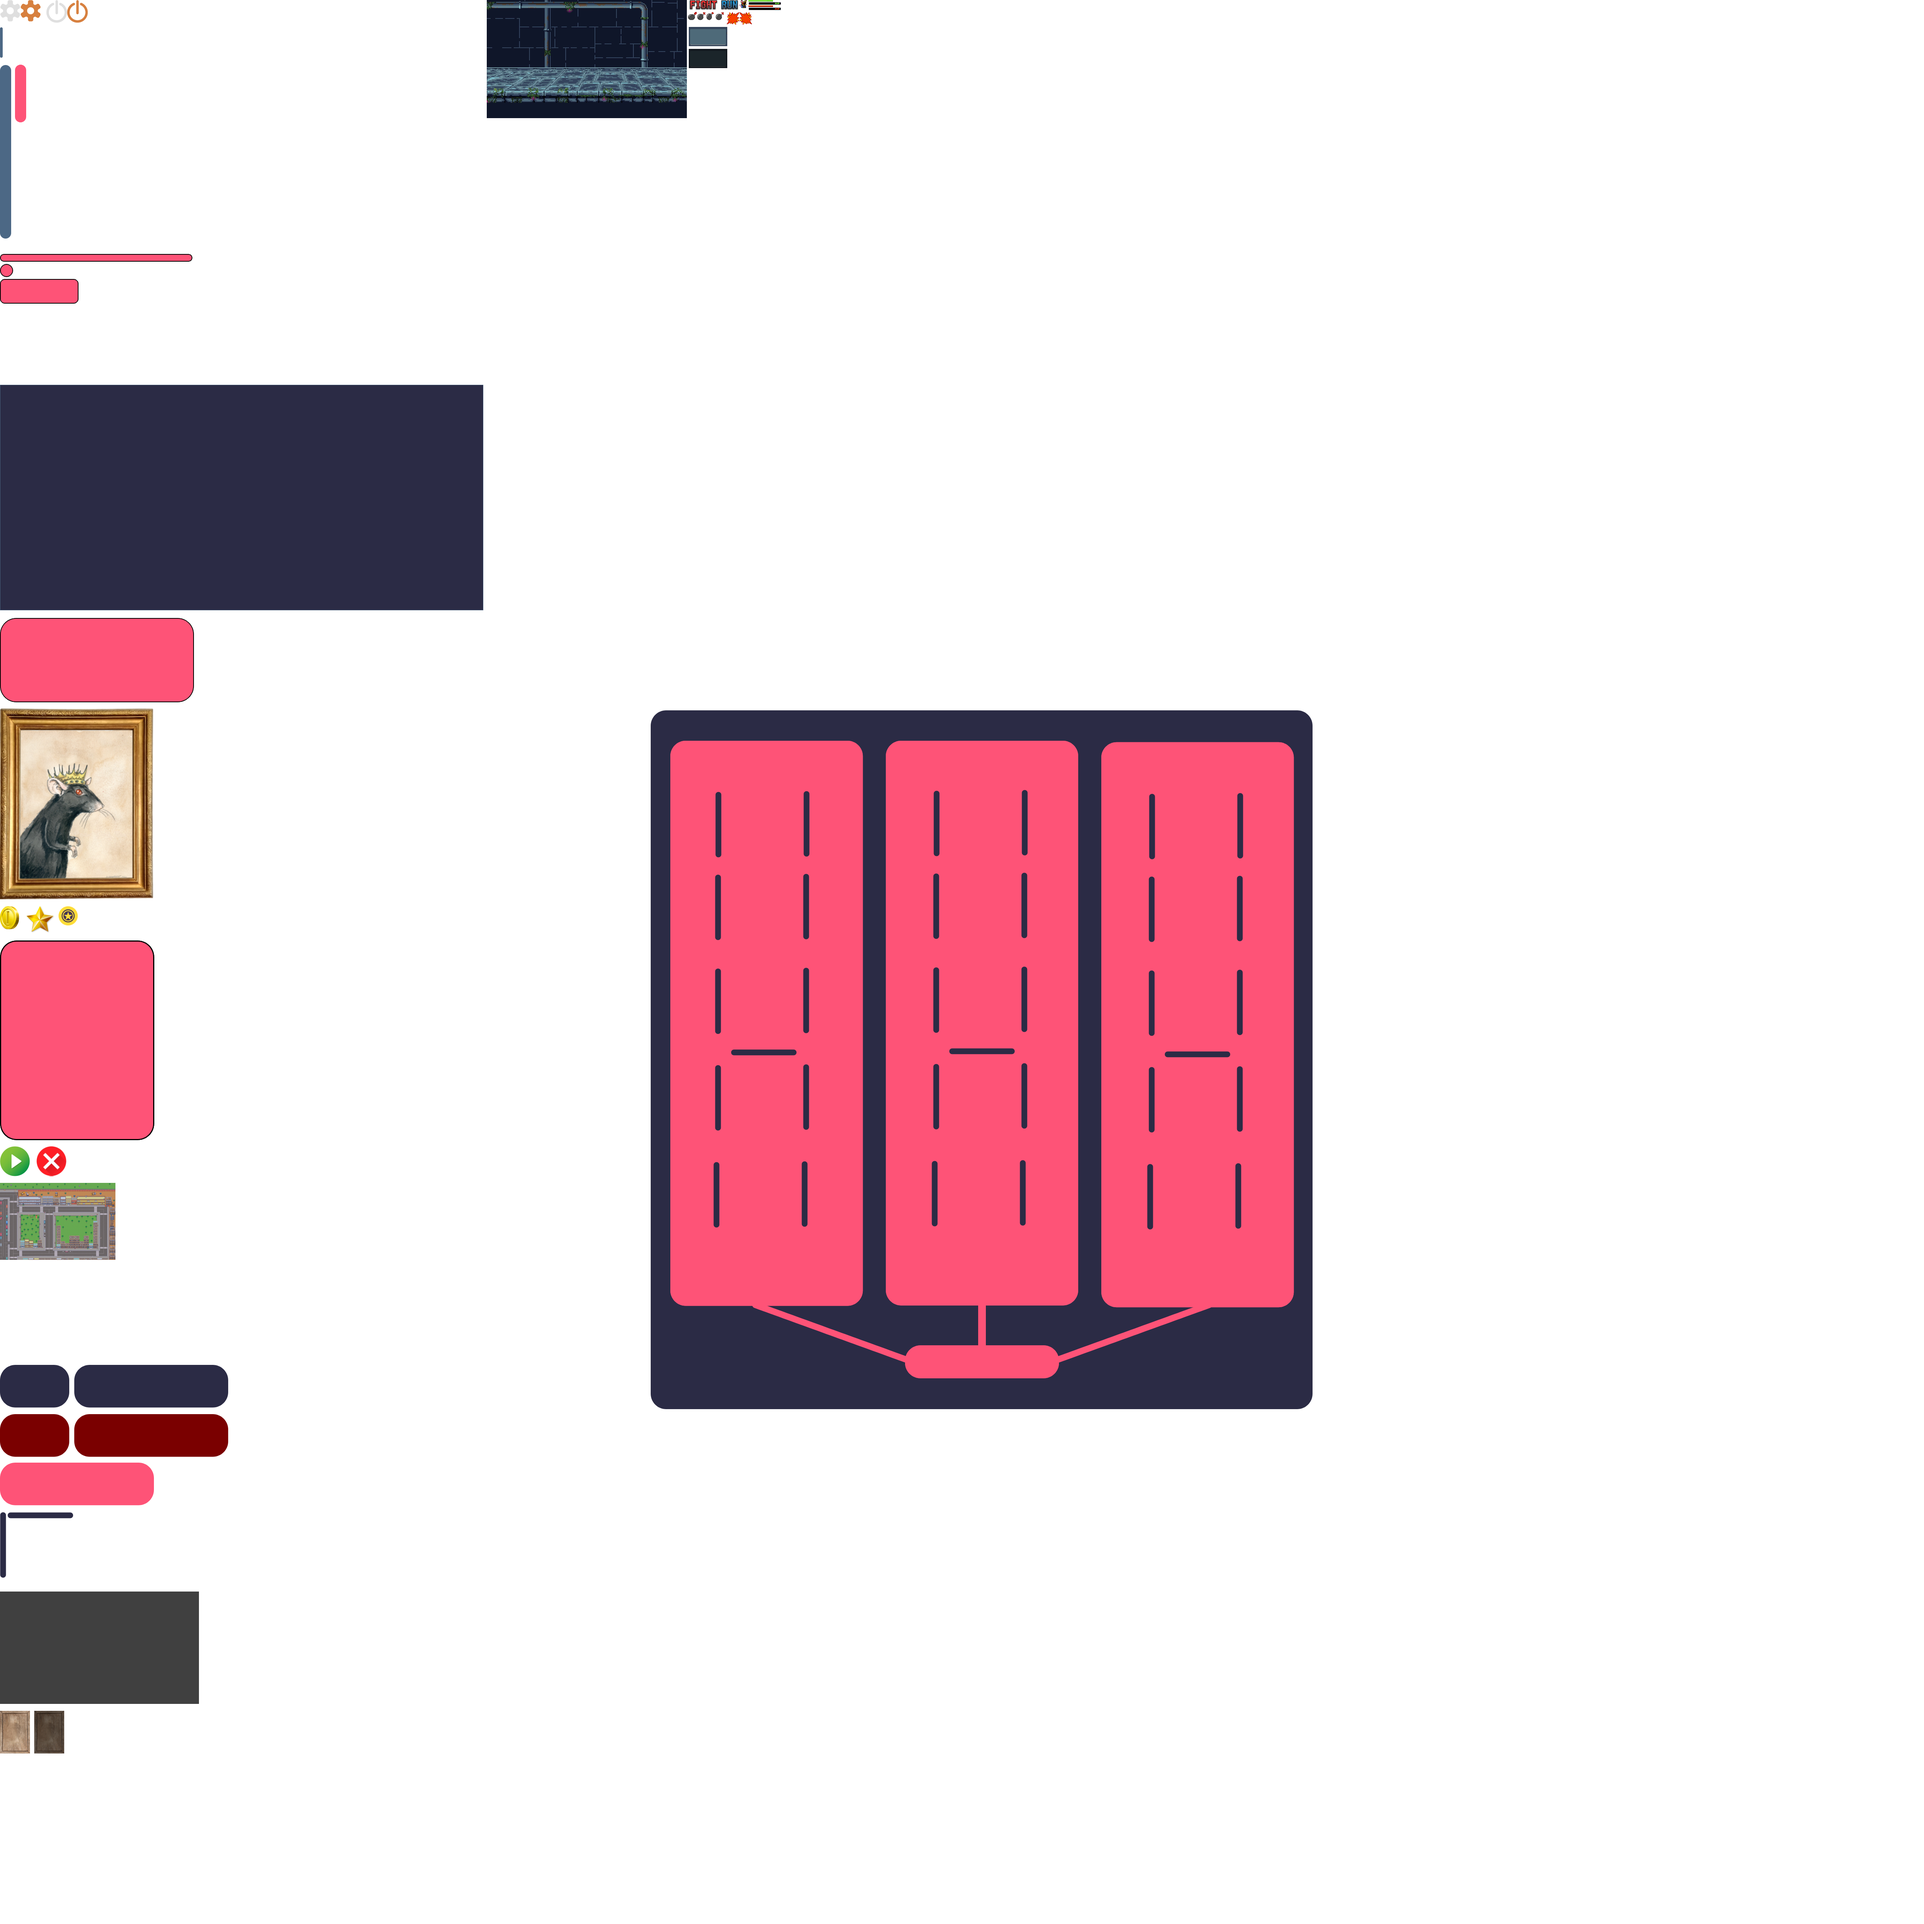
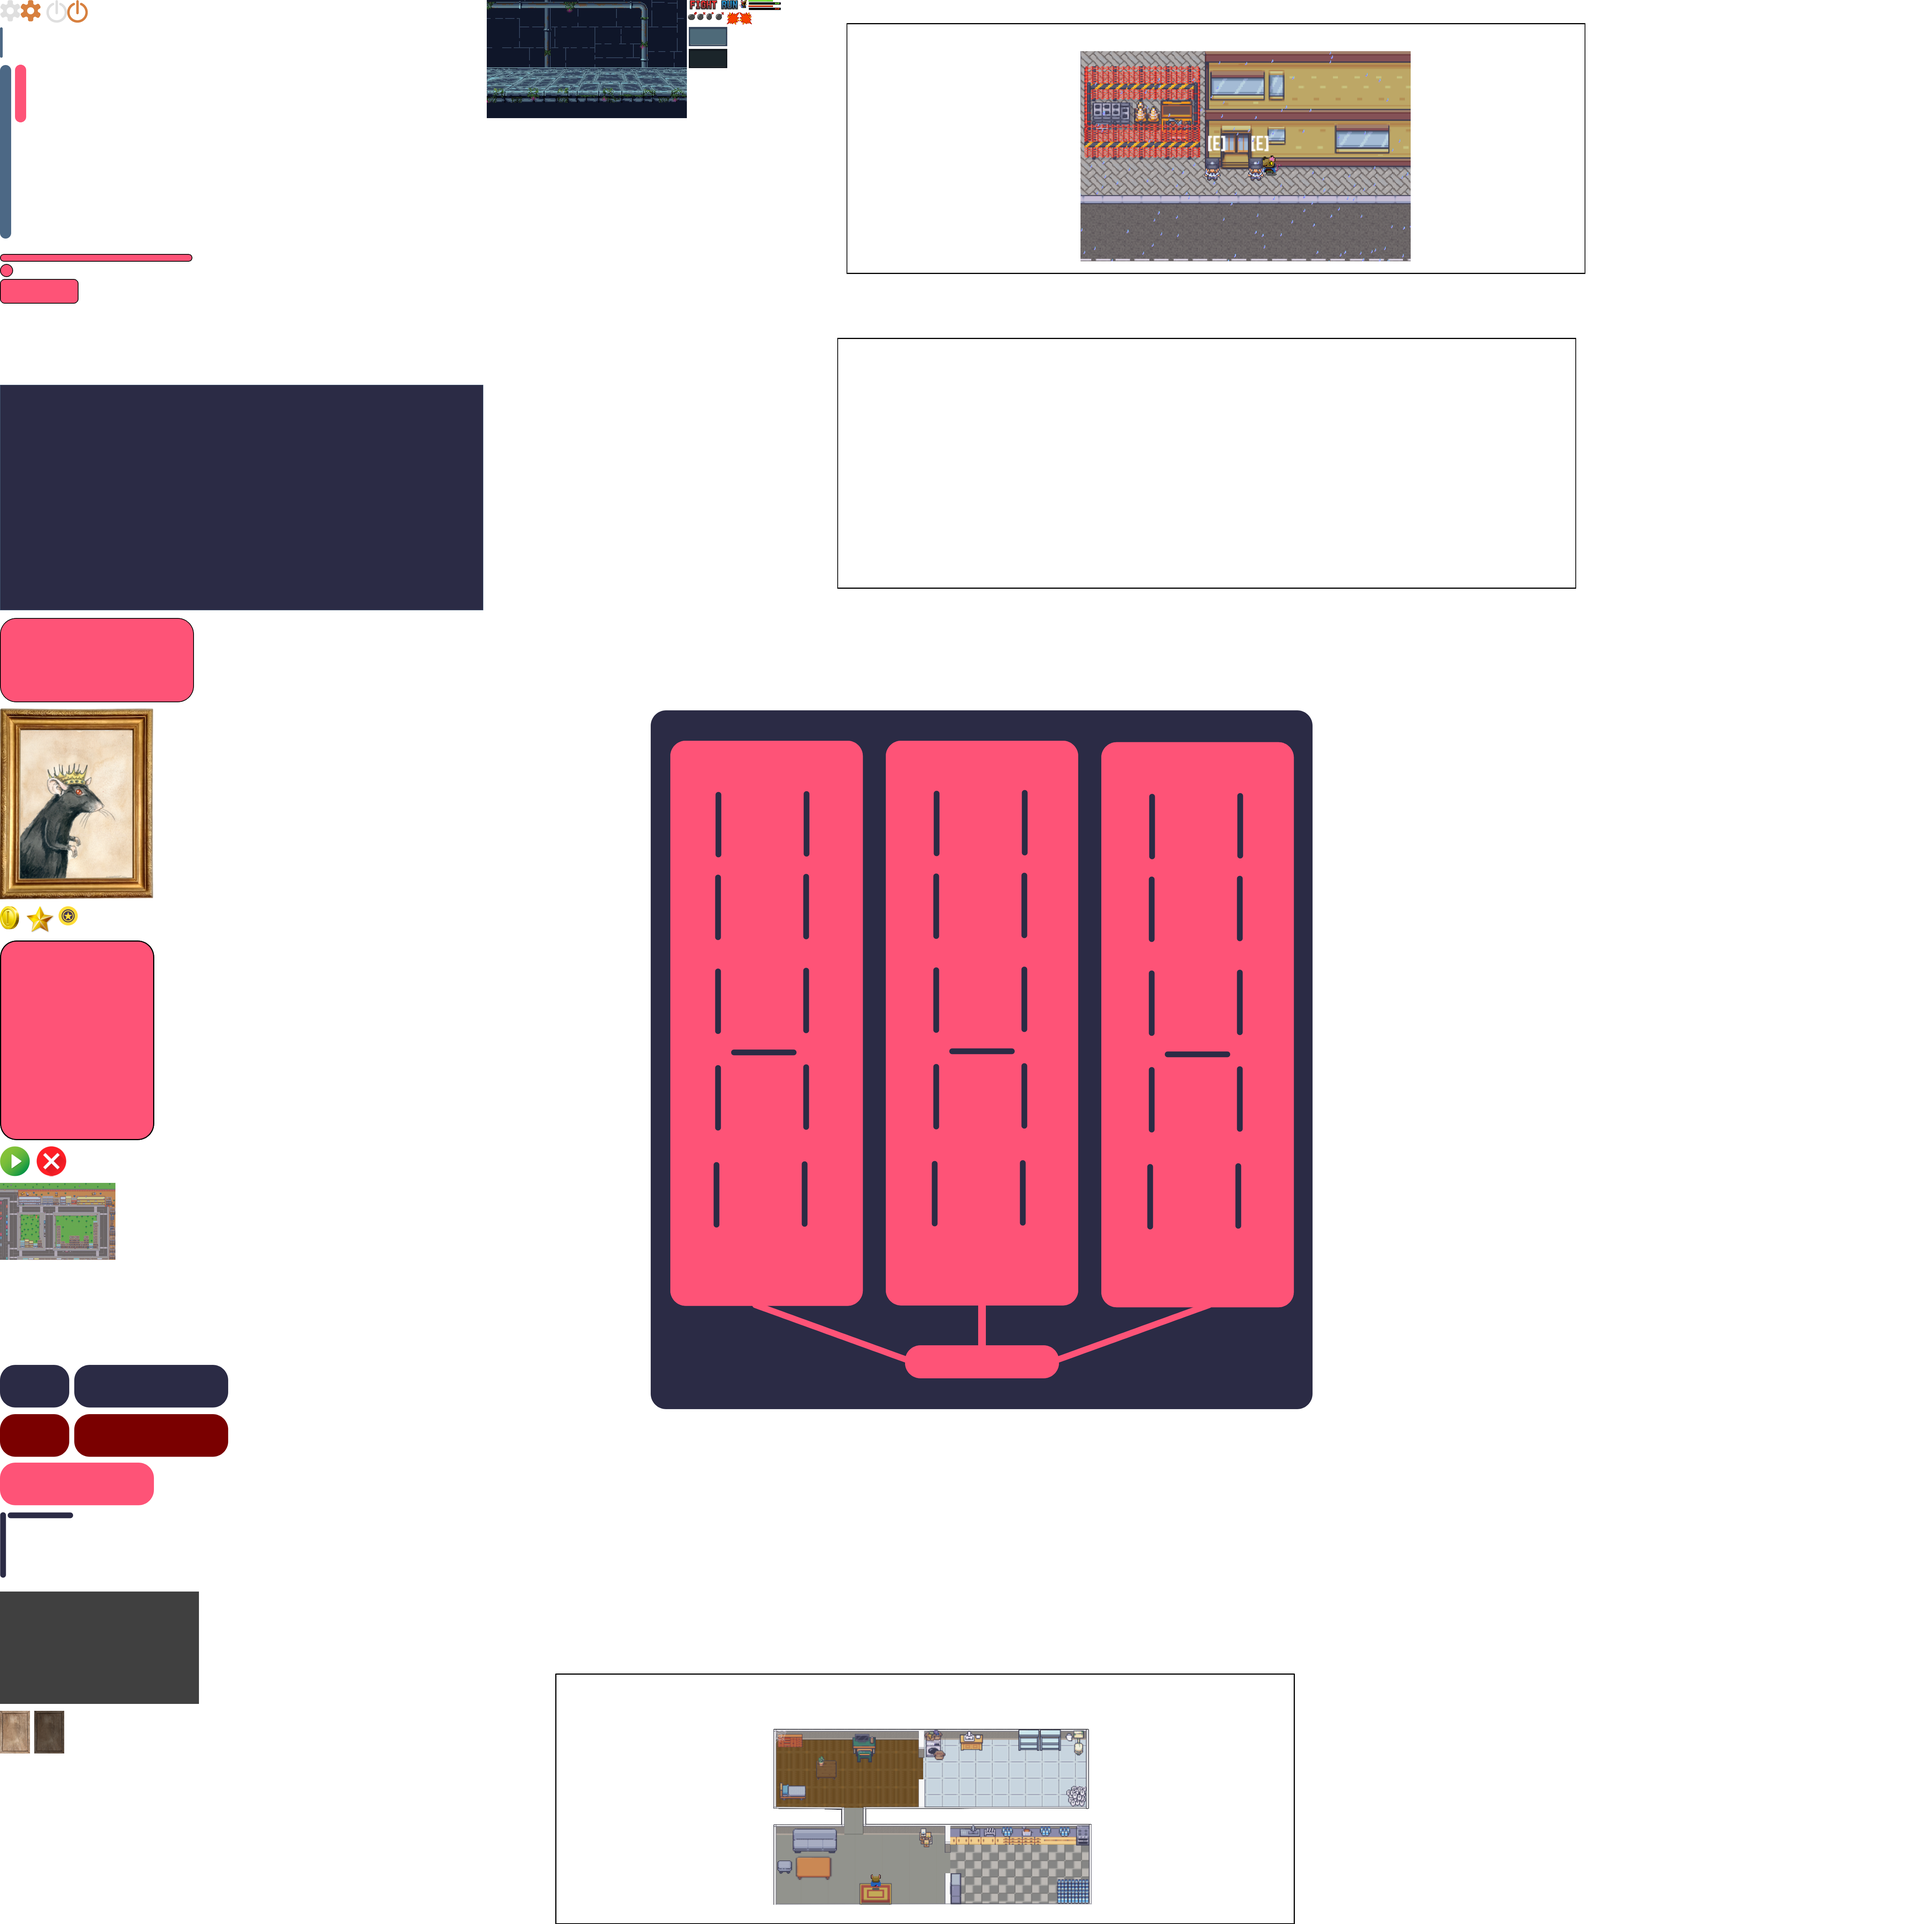
[ADD] How to play fully fonctionnal

Changed region(s): [[0.2808, 0.8736, 0.6864, 1.0], [0.5616, 0.0, 0.7488, 0.156]]

diff --git a/src/init/assets/howtoplay/init.c b/src/init/assets/howtoplay/init.c
@@ -7,14 +7,44 @@
 
 #include "rpg.h"
 
+sfIntRect rects_htp[] = {
+    R_HTP_EXPLANATION,
+    R_HTP_APART,
+    R_HTP_PNJ,
+};
+
+void init_howtoplay_sprites_2(game_t *game)
+{
+    howtoplay_t *howtoplay = game->assets->howtoplay;
+    sfVector2f p_sprites = init_pos(960, 479);
+    sfVector2f scale = init_scale(1, 1);
+
+    howtoplay->sprite = malloc(sizeof(sfSprite *) * 4);
+    howtoplay->sprite[3] = NULL;
+    for (int idx = 0; idx < 3; idx++) {
+        howtoplay->sprite[idx] = create_sprite(
+            game->textures->gui, rects_htp[idx], p_sprites, scale);
+        set_sprite_origin(howtoplay->sprite[idx], rects_htp[idx]);
+    }
+}
+
 void init_howtoplay_sprites(game_t *game)
 {
     howtoplay_t *howtoplay = game->assets->howtoplay;
     sfIntRect r_bg = init_rect(0, 0, 1920, 1080);
     sfVector2f p_bg = init_pos(0, 0);
+    sfVector2f p_sprites = init_pos(960, 479);
+    sfVector2f p_left = init_pos(80, 480);
+    sfVector2f p_right = init_pos(1840, 480);
     sfVector2f scale = init_scale(1, 1);
+    sfVector2f s_right = init_scale(-1, 1);
 
     howtoplay->bg = create_sprite(game->textures->menu_bg, r_bg, p_bg, scale);
+    howtoplay->l_arrow = create_sprite(
+        game->textures->gui, R_ARROW, p_left, scale);
+    howtoplay->r_arrow = create_sprite(
+        game->textures->gui, R_ARROW, p_right, s_right);
+    init_howtoplay_sprites_2(game);
 }
 
 void init_howtoplay_texts(game_t *game)
@@ -28,5 +58,6 @@ void init_howtoplay(game_t *game)
 
     init_howtoplay_sprites(game);
     init_howtoplay_texts(game);
+    game->assets->howtoplay->screen = 0;
     game->assets->howtoplay->clock = sfClock_create();
 }

diff --git a/src/event/howtoplay/mouse_pressed.c b/src/event/howtoplay/mouse_pressed.c
@@ -13,6 +13,20 @@ void howtoplay_mouse_pressed(game_t *game)
     sfVector2i mouse = sfMouse_getPositionRenderWindow(game->window);
     sfVector2f coords = sfRenderWindow_mapPixelToCoords(
         game->window, mouse, NULL);
+    sfFloatRect r_left = sfSprite_getGlobalBounds(howtoplay->l_arrow);
+    sfFloatRect r_right = sfSprite_getGlobalBounds(howtoplay->r_arrow);
 
+    if (sfFloatRect_contains(&r_left, coords.x, coords.y)) {
+        if (howtoplay->screen == 0)
+            howtoplay->screen = 2;
+        else
+            howtoplay->screen -= 1;
+    }
+    if (sfFloatRect_contains(&r_right, coords.x, coords.y)) {
+        if (howtoplay->screen == 2)
+            howtoplay->screen = 0;
+        else
+            howtoplay->screen += 1;
+    }
     top_bar_mouse_pressed(game);
 }

diff --git a/include/assets.h b/include/assets.h
@@ -12,6 +12,9 @@
 
 //////////////////////////////////////////////////////////////////////////////
 // Rects
+    #define R_HTP_EXPLANATION (sfIntRect){2177, 882, 1917, 647}
+    #define R_HTP_APART (sfIntRect){1446, 4352, 1917, 647} 
+    #define R_HTP_PNJ (sfIntRect){2203, 63, 1917, 647}
     #define R_ARROW (sfIntRect){240, 0, 35, 51}
     #define R_SCROLLING_BAR (sfIntRect){0, 169, 28, 450}
     #define R_SCROLLING_BAR_INSIDE (sfIntRect){39, 169, 28, 150}

diff --git a/src/display/howtoplay/display.c b/src/display/howtoplay/display.c
@@ -12,5 +12,9 @@ void display_howtoplay(game_t *game)
     howtoplay_t *howtoplay = game->assets->howtoplay;
 
     sfRenderWindow_drawSprite(game->window, howtoplay->bg, NULL);
+    sfRenderWindow_drawSprite(game->window, howtoplay->l_arrow, NULL);
+    sfRenderWindow_drawSprite(game->window, howtoplay->r_arrow, NULL);
+    sfRenderWindow_drawSprite(
+        game->window, howtoplay->sprite[howtoplay->screen], NULL);
     display_top_bar(game);
 }

diff --git a/src/init/textures/how_to_play.c b/src/init/textures/how_to_play.c
@@ -1,0 +1,17 @@
+/*
+** EPITECH PROJECT, 2022
+** Init Textures Environnment for My RPG
+** File description:
+** Xavier VINCENT - Max PEIXOTO - Gautier BONHUR - Hugo DUBOIS
+*/
+
+#include "rpg.h"
+
+void init_textures_how_to_play(game_t *game)
+{
+    textures_t *textures = game->textures;
+
+    textures->left_arrow = sfTexture_createFromFile(LEFT_ARROW, NULL);
+    textures->right_arrow = sfTexture_createFromFile(RIGHT_ARROW, NULL);
+    
+}

diff --git a/src/event/howtoplay/mouse_moved.c b/src/event/howtoplay/mouse_moved.c
@@ -13,6 +13,8 @@ void howtoplay_mouse_moved(game_t *game)
     sfVector2i mouse = sfMouse_getPositionRenderWindow(game->window);
     sfVector2f coords = sfRenderWindow_mapPixelToCoords(
         game->window, mouse, NULL);
+    sfFloatRect r_left = sfSprite_getGlobalBounds(howtoplay->l_arrow);
+    sfFloatRect r_right = sfSprite_getGlobalBounds(howtoplay->r_arrow);
 
     top_bar_mouse_moved(game);
 }

diff --git a/include/data.h b/include/data.h
@@ -142,8 +142,12 @@
     } home_menu_t;
 
     typedef struct howtoplay {
+        int screen;
         sfSprite *bg;
         sfClock *clock;
+        sfSprite **sprite;
+        sfSprite *l_arrow;
+        sfSprite *r_arrow;
     } howtoplay_t;
 
     typedef struct rat {
